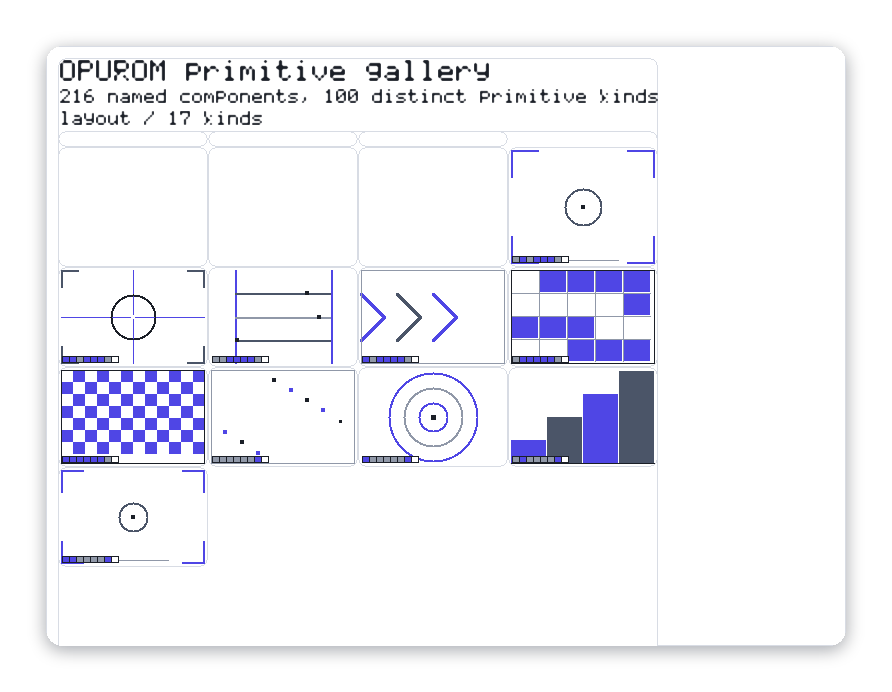
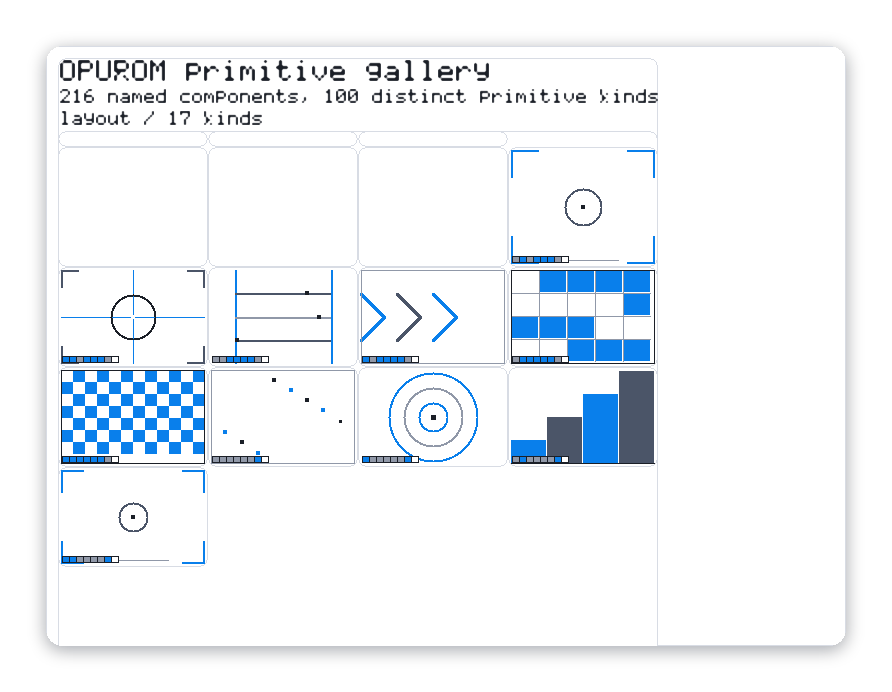
feat: use brand blue as the default accent

diff --git a/README.md b/README.md
@@ -7,7 +7,6 @@ to IR and renders through the framework's own pipeline.
 <div align="center">
 
 ![OPUROM full-stack Todo application](./assets/example-full-stack-todo.png)
-*Figure 1: The full-stack Todo application rendered by the OPUROM renderer*
 
 </div>
 
@@ -65,13 +64,10 @@ toolchain and component catalog together, and exits nonzero if any assertion fai
 <div align="center">
 
 ![OPUROM Calculator with themed controls](./assets/example-calculator.png)
-*Figure 2: Calculator — state-driven arithmetic with themed controls*
 
 ![OPUROM Photo Wall with a selected gradient](./assets/example-photo-wall.png)
-*Figure 3: Photo Wall — state-driven selection across a gradient gallery*
 
 ![OPUROM component gallery](./assets/example-component-gallery.png)
-*Figure 4: Component gallery — one exhibit per primitive family*
 
 </div>
 
